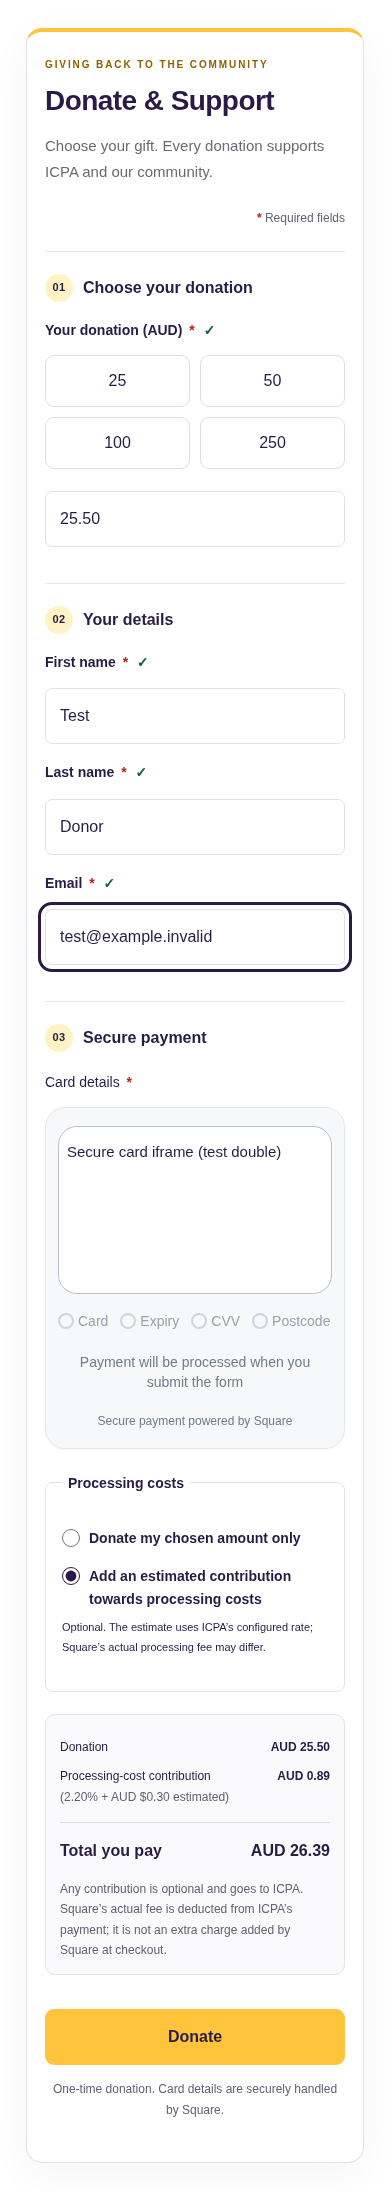
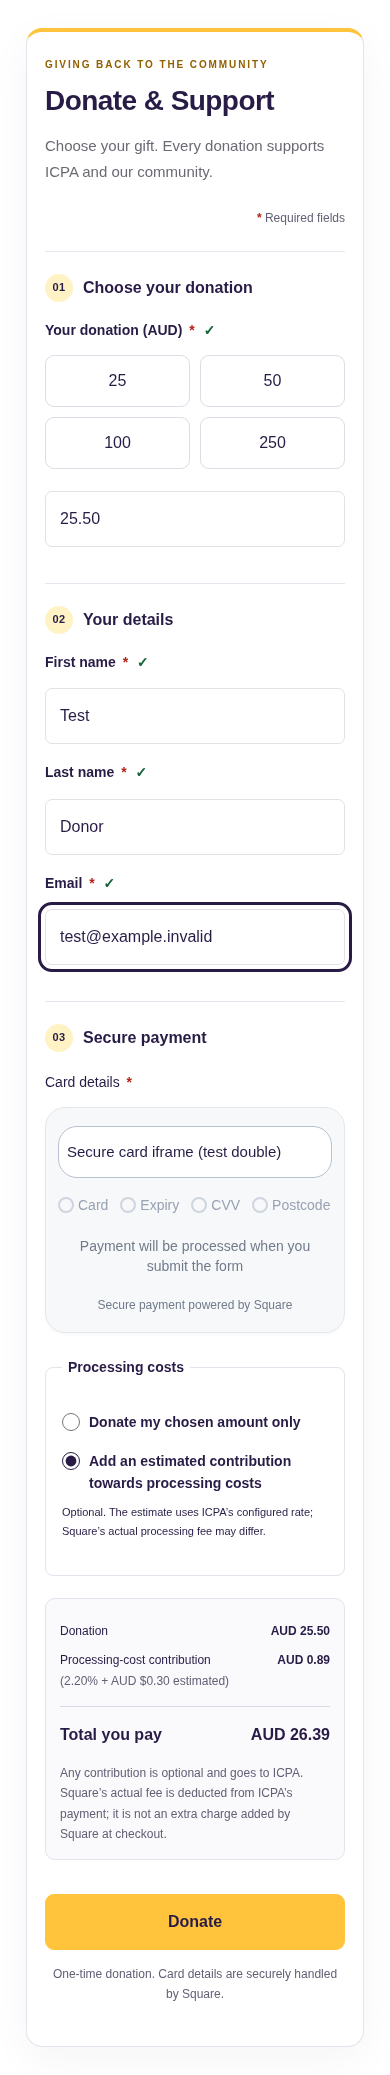
Remove fixed blank space from secure card container

diff --git a/preview/fundraising-platform.html b/preview/fundraising-platform.html
@@ -165,7 +165,7 @@ body{margin:0;background:#fff}#app{font-family:"ICPA Poppins",Poppins,Arial,sans
 .icpa-recurring-form .icpa-btn{width:100%}
 
 /* Square hosts card inputs in its own secure iframe. */
-.icpa-platform .icpa-card-container{min-height:90px;margin:12px 0}
+.icpa-platform .icpa-card-container{min-height:0;margin:12px 0}
 .icpa-platform .icpa-card-status{margin:12px 0}
 .icpa-platform .icpa-donation-form>input:not([type="hidden"]){width:100%;box-sizing:border-box;margin:6px 0 14px;padding:14px;border:1px solid #ded8e6;border-radius:7px;background:#fff;color:#281c46}
 .icpa-platform .icpa-btn:disabled{opacity:.65;cursor:wait}
@@ -233,7 +233,7 @@ body{margin:0;background:#fff}#app{font-family:"ICPA Poppins",Poppins,Arial,sans
 
 /* Match the rounded secure-payment panel while leaving card fields inside Square's iframe. */
 .icpa-platform .icpa-card-area{margin:12px 0 20px;padding:18px;background:#f6f7f9;border:1px solid #edf0f4;border-radius:16px;box-shadow:0 2px 5px #281c4605}
-.icpa-platform .icpa-card-area .icpa-card-container{margin:0 0 14px;padding:14px 12px;min-height:130px;border:1px solid #bfc6d5;border-radius:16px;background:#fff}
+.icpa-platform .icpa-card-area .icpa-card-container{margin:0 0 14px;padding:14px 12px;min-height:0;border:1px solid #bfc6d5;border-radius:16px;background:#fff}
 .icpa-platform .icpa-card-area .icpa-card-checks{gap:12px;margin:6px 0 18px}
 .icpa-platform .icpa-card-area .icpa-card-field-check{background:transparent;border:0;border-radius:0;padding:0;color:#737d8d;gap:4px}
 .icpa-platform .icpa-card-area .icpa-card-field-check[data-state="complete"]{color:#176538;background:transparent}
@@ -242,11 +242,11 @@ body{margin:0;background:#fff}#app{font-family:"ICPA Poppins",Poppins,Arial,sans
 .icpa-platform .icpa-card-hint,.icpa-platform .icpa-card-powered{text-align:center;color:#697386;font-size:13px;line-height:1.6;margin:18px 0 0}
 .icpa-platform .icpa-card-powered{font-size:12px;margin-top:14px}
 .icpa-platform .icpa-fee-rate{font-size:12px;color:#626075}
-@media(max-width:520px){.icpa-platform .icpa-card-area{padding:12px}.icpa-platform .icpa-card-area .icpa-card-container{padding:12px 8px;min-height:120px}.icpa-platform .icpa-card-area .icpa-card-checks{gap:10px}.icpa-platform .icpa-summary-fee-label .icpa-fee-rate{display:block}}
+@media(max-width:520px){.icpa-platform .icpa-card-area{padding:12px}.icpa-platform .icpa-card-area .icpa-card-container{padding:12px 8px;min-height:0}.icpa-platform .icpa-card-area .icpa-card-checks{gap:10px}.icpa-platform .icpa-summary-fee-label .icpa-fee-rate{display:block}}
 
 /* Reference panel proportions and neutral, unfilled field-status circles. */
 .icpa-platform .icpa-card-area{padding:24px 24px 22px;border-radius:22px;background:#f7f8f9;border-color:#e4e7ec;box-shadow:0 2px 3px #281c4606;font-family:Arial,sans-serif}
-.icpa-platform .icpa-card-area .icpa-card-container{box-sizing:border-box;min-height:168px;padding:12px;border-radius:19px;border-color:#b8c1d1;margin-bottom:18px}
+.icpa-platform .icpa-card-area .icpa-card-container{box-sizing:border-box;min-height:0;padding:12px;border-radius:19px;border-color:#b8c1d1;margin-bottom:18px}
 .icpa-platform .icpa-card-area .icpa-card-checks{gap:14px;margin:0 0 22px}
 .icpa-platform .icpa-card-area .icpa-card-field-check{font-size:14px;color:#98a2b3;gap:4px;line-height:18px}
 .icpa-platform .icpa-card-area .icpa-check-icon{display:inline-flex;align-items:center;justify-content:center;width:16px;height:16px;flex:0 0 16px;box-sizing:border-box}
@@ -255,7 +255,7 @@ body{margin:0;background:#fff}#app{font-family:"ICPA Poppins",Poppins,Arial,sans
 .icpa-platform .icpa-card-area .icpa-card-status:empty{display:none}
 .icpa-platform .icpa-card-area .icpa-card-hint{font-size:14px;color:#717b8c;line-height:20px;margin:22px 0 0;text-align:center}
 .icpa-platform .icpa-card-area .icpa-card-powered{font-size:12px;color:#717b8c;line-height:18px;margin:20px 0 0;text-align:center}
-@media(max-width:520px){.icpa-platform .icpa-card-area{padding:18px 12px;border-radius:20px}.icpa-platform .icpa-card-area .icpa-card-container{padding:12px 8px;min-height:168px}.icpa-platform .icpa-card-area .icpa-card-checks{gap:12px;row-gap:8px}}
+@media(max-width:520px){.icpa-platform .icpa-card-area{padding:18px 12px;border-radius:20px}.icpa-platform .icpa-card-area .icpa-card-container{padding:12px 8px;min-height:0}.icpa-platform .icpa-card-area .icpa-card-checks{gap:12px;row-gap:8px}}
 .icpa-fee-mode-picker{margin:16px 0;padding:18px;background:#f8f9fc;border:1px solid #ccd0dd;border-radius:14px;max-width:1000px}.icpa-fee-mode-picker legend{font-weight:600;padding:0 8px}.icpa-fee-mode-buttons{display:flex;gap:10px}.icpa-fee-mode-buttons label{position:relative;flex:1;cursor:pointer}.icpa-fee-mode-buttons input{position:absolute;opacity:0;width:1px;height:1px}.icpa-fee-mode-buttons span{display:block;border:1px solid #bfc6d5;border-radius:24px;background:#fff;color:#281c46;text-align:center;padding:12px 14px;font-weight:600}.icpa-fee-mode-buttons input:checked+span{background:#281c46;color:#fff;border-color:#281c46}.icpa-fee-mode-buttons input:focus-visible+span{outline:3px solid #2271b1;outline-offset:3px}.icpa-fee-mode-picker p{color:#535d73;line-height:1.6;margin-bottom:0}@media(max-width:600px){.icpa-fee-mode-buttons{flex-direction:column}}
 
 </style></head><body><div class="demo-bar"><strong>WordPress plugin preview · Sample data · No payments · Demo account: Amina</strong><nav class="demo-shortcuts" aria-label="Preview pages"><button data-view="donate">General donations</button><button data-view="browse">Discover</button><button data-view="campaign0">Campaign</button><button data-view="start">Start a fundraiser</button><button data-view="account">My account</button><button data-view="settings">Settings</button><button data-view="recurring_settings">Recurring settings</button></nav></div><div id="app"></div><div class="demo-toast" role="status" hidden><button aria-label="Dismiss message" id="dismiss-toast">×</button><span id="toast-text"></span></div><script>

diff --git a/icpa-fundraising/assets/platform.css b/icpa-fundraising/assets/platform.css
@@ -162,7 +162,7 @@
 .icpa-recurring-form .icpa-btn{width:100%}
 
 /* Square hosts card inputs in its own secure iframe. */
-.icpa-platform .icpa-card-container{min-height:90px;margin:12px 0}
+.icpa-platform .icpa-card-container{min-height:0;margin:12px 0}
 .icpa-platform .icpa-card-status{margin:12px 0}
 .icpa-platform .icpa-donation-form>input:not([type="hidden"]){width:100%;box-sizing:border-box;margin:6px 0 14px;padding:14px;border:1px solid #ded8e6;border-radius:7px;background:#fff;color:#281c46}
 .icpa-platform .icpa-btn:disabled{opacity:.65;cursor:wait}
@@ -230,7 +230,7 @@
 
 /* Match the rounded secure-payment panel while leaving card fields inside Square's iframe. */
 .icpa-platform .icpa-card-area{margin:12px 0 20px;padding:18px;background:#f6f7f9;border:1px solid #edf0f4;border-radius:16px;box-shadow:0 2px 5px #281c4605}
-.icpa-platform .icpa-card-area .icpa-card-container{margin:0 0 14px;padding:14px 12px;min-height:130px;border:1px solid #bfc6d5;border-radius:16px;background:#fff}
+.icpa-platform .icpa-card-area .icpa-card-container{margin:0 0 14px;padding:14px 12px;min-height:0;border:1px solid #bfc6d5;border-radius:16px;background:#fff}
 .icpa-platform .icpa-card-area .icpa-card-checks{gap:12px;margin:6px 0 18px}
 .icpa-platform .icpa-card-area .icpa-card-field-check{background:transparent;border:0;border-radius:0;padding:0;color:#737d8d;gap:4px}
 .icpa-platform .icpa-card-area .icpa-card-field-check[data-state="complete"]{color:#176538;background:transparent}
@@ -239,11 +239,11 @@
 .icpa-platform .icpa-card-hint,.icpa-platform .icpa-card-powered{text-align:center;color:#697386;font-size:13px;line-height:1.6;margin:18px 0 0}
 .icpa-platform .icpa-card-powered{font-size:12px;margin-top:14px}
 .icpa-platform .icpa-fee-rate{font-size:12px;color:#626075}
-@media(max-width:520px){.icpa-platform .icpa-card-area{padding:12px}.icpa-platform .icpa-card-area .icpa-card-container{padding:12px 8px;min-height:120px}.icpa-platform .icpa-card-area .icpa-card-checks{gap:10px}.icpa-platform .icpa-summary-fee-label .icpa-fee-rate{display:block}}
+@media(max-width:520px){.icpa-platform .icpa-card-area{padding:12px}.icpa-platform .icpa-card-area .icpa-card-container{padding:12px 8px;min-height:0}.icpa-platform .icpa-card-area .icpa-card-checks{gap:10px}.icpa-platform .icpa-summary-fee-label .icpa-fee-rate{display:block}}
 
 /* Reference panel proportions and neutral, unfilled field-status circles. */
 .icpa-platform .icpa-card-area{padding:24px 24px 22px;border-radius:22px;background:#f7f8f9;border-color:#e4e7ec;box-shadow:0 2px 3px #281c4606;font-family:Arial,sans-serif}
-.icpa-platform .icpa-card-area .icpa-card-container{box-sizing:border-box;min-height:168px;padding:12px;border-radius:19px;border-color:#b8c1d1;margin-bottom:18px}
+.icpa-platform .icpa-card-area .icpa-card-container{box-sizing:border-box;min-height:0;padding:12px;border-radius:19px;border-color:#b8c1d1;margin-bottom:18px}
 .icpa-platform .icpa-card-area .icpa-card-checks{gap:14px;margin:0 0 22px}
 .icpa-platform .icpa-card-area .icpa-card-field-check{font-size:14px;color:#98a2b3;gap:4px;line-height:18px}
 .icpa-platform .icpa-card-area .icpa-check-icon{display:inline-flex;align-items:center;justify-content:center;width:16px;height:16px;flex:0 0 16px;box-sizing:border-box}
@@ -252,4 +252,4 @@
 .icpa-platform .icpa-card-area .icpa-card-status:empty{display:none}
 .icpa-platform .icpa-card-area .icpa-card-hint{font-size:14px;color:#717b8c;line-height:20px;margin:22px 0 0;text-align:center}
 .icpa-platform .icpa-card-area .icpa-card-powered{font-size:12px;color:#717b8c;line-height:18px;margin:20px 0 0;text-align:center}
-@media(max-width:520px){.icpa-platform .icpa-card-area{padding:18px 12px;border-radius:20px}.icpa-platform .icpa-card-area .icpa-card-container{padding:12px 8px;min-height:168px}.icpa-platform .icpa-card-area .icpa-card-checks{gap:12px;row-gap:8px}}
+@media(max-width:520px){.icpa-platform .icpa-card-area{padding:18px 12px;border-radius:20px}.icpa-platform .icpa-card-area .icpa-card-container{padding:12px 8px;min-height:0}.icpa-platform .icpa-card-area .icpa-card-checks{gap:12px;row-gap:8px}}

diff --git a/icpa-fundraising/icpa-fundraising.php b/icpa-fundraising/icpa-fundraising.php
@@ -2,7 +2,7 @@
 /**
  * Plugin Name: ICPA Donations & Campaigns
  * Description: Embedded Square card donations, configurable Square-hosted recurring giving and optional campaigns inside WordPress.
- * Version: 0.9.3
+ * Version: 0.9.4
  * Requires at least: 6.4
  * Requires PHP: 7.4
  * License: GPL-2.0-or-later

diff --git a/icpa-fundraising/includes/class-platform.php b/icpa-fundraising/includes/class-platform.php
@@ -2,7 +2,7 @@
 defined( 'ABSPATH' ) || exit;
 
 final class ICPA_Platform {
-    const VERSION = '0.9.3';
+    const VERSION = '0.9.4';
     const OPTION = 'icpa_fundraising_settings';
     const TYPE = 'icpa_campaign';
 

diff --git a/icpa-fundraising/README.md b/icpa-fundraising/README.md
@@ -1,4 +1,4 @@
-# ICPA Fundraising — version 0.9.3
+# ICPA Fundraising — version 0.9.4
 
 An installable WordPress donation plugin with general custom-amount giving and optional fundraising campaigns, organisers and donor accounts. All donations go to **one ICPA Square account**. ICPA approves campaigns and manages distribution; organisers cannot enter a different payment recipient.
 
@@ -14,9 +14,9 @@ Start with Sandbox. Enter a custom amount and test card `4111 1111 1111 1111`, a
 
 During a payment retry, the form locks its amount/email and retains its single-use token and submission key; Square idempotency prevents a repeated request creating another payment. If a network error leaves confirmation uncertain, retry that same attempt or contact ICPA before starting another donation. A declined card requires reloading for a new attempt. The backend rate-limits requests, validates nonces/environment/amount/campaign status, and continues to process signed payment/refund webhooks. No OAuth redirect or Application secret is required.
 
-Version 0.9.3 shows individual green ticks for amount, first name, last name and email, and separate card-number, expiry, CVV and postcode statuses below the Square iframe. Card status comes from Square’s per-field input events; the overall card check requires all four fields to be valid. Invalidated or cleared fields lose their ticks. The selected amount uses contrasting text and a checkmark. A confirmed payment replaces the entry form with a large green confirmation panel, server-confirmed amount and donation reference, and moves keyboard focus to the result. Sandbox says “Test donation completed” and explicitly states that no real money was charged. Pending payments use an amber processing panel and never claim success. This feedback indicates input completeness, not card approval or successful payment. First and last name remain required.
+Version 0.9.4 shows individual green ticks for amount, first name, last name and email, and separate card-number, expiry, CVV and postcode statuses below the Square iframe. Card status comes from Square’s per-field input events; the overall card check requires all four fields to be valid. Invalidated or cleared fields lose their ticks. The selected amount uses contrasting text and a checkmark. A confirmed payment replaces the entry form with a large green confirmation panel, server-confirmed amount and donation reference, and moves keyboard focus to the result. Sandbox says “Test donation completed” and explicitly states that no real money was charged. Pending payments use an amber processing panel and never claim success. This feedback indicates input completeness, not card approval or successful payment. First and last name remain required.
 
-## Design your own page (0.9.3)
+## Design your own page (0.9.4)
 
 Use WordPress blocks or Elementor for your banner, images, columns and text, then insert `[icpa_donation_form]` in a Shortcode block/widget. The plugin keeps your theme's page layout, header and footer. The redesigned default form provides larger controls, numbered giving/details/payment sections, responsive name columns and the existing validation/confirmation states.
 
@@ -28,7 +28,7 @@ For a form that fits directly inside your own section/card without another borde
 
 Set colours and the donation heading under **ICPA Donations → Settings**. Advanced theme styling can target `.icpa-general-widget`, `.icpa-payment-entry` and `.icpa-form-step`. Square's secure card iframe retains its own layout; the plugin never replaces it with ordinary WordPress card inputs. The plugin does not change your page builder content or other plugins' dashboard notices.
 
-## Select Square locations by name (0.9.3)
+## Select Square locations by name (0.9.4)
 
 1. Under **ICPA Donations → Square connections**, save the matching environment's access token.
 2. Click **Load Sandbox locations** or **Load Production locations** below the profiles. Save profile edits before loading.
@@ -37,11 +37,11 @@ Set colours and the donation heading under **ICPA Donations → Settings**. Adva
 
 All returned locations are listed; inactive locations or locations using a different site currency are disabled. Discovery is administrator-only, nonce-protected and read-only against Square. Location names/IDs are cached independently for each environment and invalidated when the access token changes. The manual legacy field on general Settings has been replaced with a link to these profile selectors. Existing saved locations remain selected even before discovery; advanced server-configured locations remain controlled on the server. Changing the selected location applies to new donation attempts. Each new one-time donation stores its location so later payment/refund reconciliation continues using its original location; previously stored rows without a location are assigned the old profile location before an administrator changes profiles. Credentials must still belong to the same receiving ICPA Square account for historical payments to be accessible. In-progress attempts must be reloaded if the default location changes.
 
-The 0.9.3 refinement matches the supplied panel's rounded border, 168px minimum card container, light background, neutral circular status indicators, spacing and centered captions. Initial indicators are Card, Expiry and CVV; the postcode indicator appears when Square emits a postcode field event. Square's required postcode input is never hidden. Only the outer panel is controlled by plugin CSS; the supported SDK styles set the input font, placeholder and border, while Square still controls the secure iframe's exact field layout. Pixel-identical input rendering across regions, widths and browser/autofill configurations is not guaranteed.
+The 0.9.4 refinement matches the supplied panel's rounded border, content-sized card container, light background, neutral circular status indicators, spacing and centered captions. Initial indicators are Card, Expiry and CVV; the postcode indicator appears when Square emits a postcode field event. Square's required postcode input is never hidden. Only the outer panel is controlled by plugin CSS; the supported SDK styles set the input font, placeholder and border, while Square still controls the secure iframe's exact field layout. Pixel-identical input rendering across regions, widths and browser/autofill configurations is not guaranteed.
 
-Version 0.9.3 displays the configured percentage and any fixed estimate beside the processing-cost amount. It does not assume a 2.25% rate: enter your actual estimate in Settings. The secure card area uses a rounded white container, simple field indicators below it, and clear submit/payment-provider captions. Required postcode fields remain controlled by Square. The calculation and consent modes are unchanged.
+Version 0.9.4 displays the configured percentage and any fixed estimate beside the processing-cost amount. It does not assume a 2.25% rate: enter your actual estimate in Settings. The secure card area uses a rounded white container, simple field indicators below it, and clear submit/payment-provider captions. Required postcode fields remain controlled by Square. The calculation and consent modes are unchanged.
 
-## Three-button processing fee selector (0.9.3)
+## Three-button processing fee selector (0.9.4)
 
 Under **ICPA Donations → Settings → Processing fee handling**, select **Absorb fees**, **Add to donation**, or **Donor chooses**, then save. The active mode is highlighted and an explanation changes as you select it. Existing 0.9.0 settings migrate to Absorb or Donor chooses without changing the configured rates.
 
@@ -51,7 +51,7 @@ Under **ICPA Donations → Settings → Processing fee handling**, select **Abso
 
 A nonzero percentage or fixed estimate is required for either mode that adds costs. Rates remain administrator-configured estimates and actual Square fees are reported separately. The shortcode defaults to the global mode. You can use `fees="off"`, `fees="optional"`, or `fees="pass_on"` for individual forms; adding costs requires a non-absorb global mode. Overrides are signed into each form policy. This applies only to one-time donations.
 
-## Required fields, donation breakdown and processing costs (0.9.3)
+## Required fields, donation breakdown and processing costs (0.9.4)
 
 Required donation and campaign fields have a red asterisk and accessible required text. The one-time form displays donation amount, optional processing-cost contribution and the total before submission; the confirmation repeats the server-verified breakdown.
 

diff --git a/README.md b/README.md
@@ -2,7 +2,7 @@
 
 ## Download and install
 
-Version 0.9.3 refines the reference-style card panel proportions, neutral status circles and captions. Version 0.9.2 shows the configured processing percentage/fixed rate beside the contribution amount and restyles the secure card panel. Version 0.9.1 added a three-button fee selector: Absorb fees, Add to donation and Donor chooses. Version 0.9.0 introduced required-field asterisks, a live donation/contribution/total breakdown, optional processing-cost contributions configurable per form, and actual Square fee reporting in the admin ledger. Contributions are optional, off by default, calculated from administrator-supplied estimates and excluded from campaign progress.
+Version 0.9.4 removes the card panel’s fixed minimum height so it fits its fields. Version 0.9.3 refines the reference-style card panel proportions, neutral status circles and captions. Version 0.9.2 shows the configured processing percentage/fixed rate beside the contribution amount and restyles the secure card panel. Version 0.9.1 added a three-button fee selector: Absorb fees, Add to donation and Donor chooses. Version 0.9.0 introduced required-field asterisks, a live donation/contribution/total breakdown, optional processing-cost contributions configurable per form, and actual Square fee reporting in the admin ledger. Contributions are optional, off by default, calculated from administrator-supplied estimates and excluded from campaign progress.
 
 [Download the ICPA Fundraising plugin ZIP](https://github.com/kh4dr94/ICPA_Donation/raw/refs/heads/main/icpa-fundraising.zip), then upload it in WordPress under **Plugins → Add New → Upload Plugin** and activate it. Upload this plugin ZIP, rather than GitHub's source-code ZIP of the whole repository.
 
